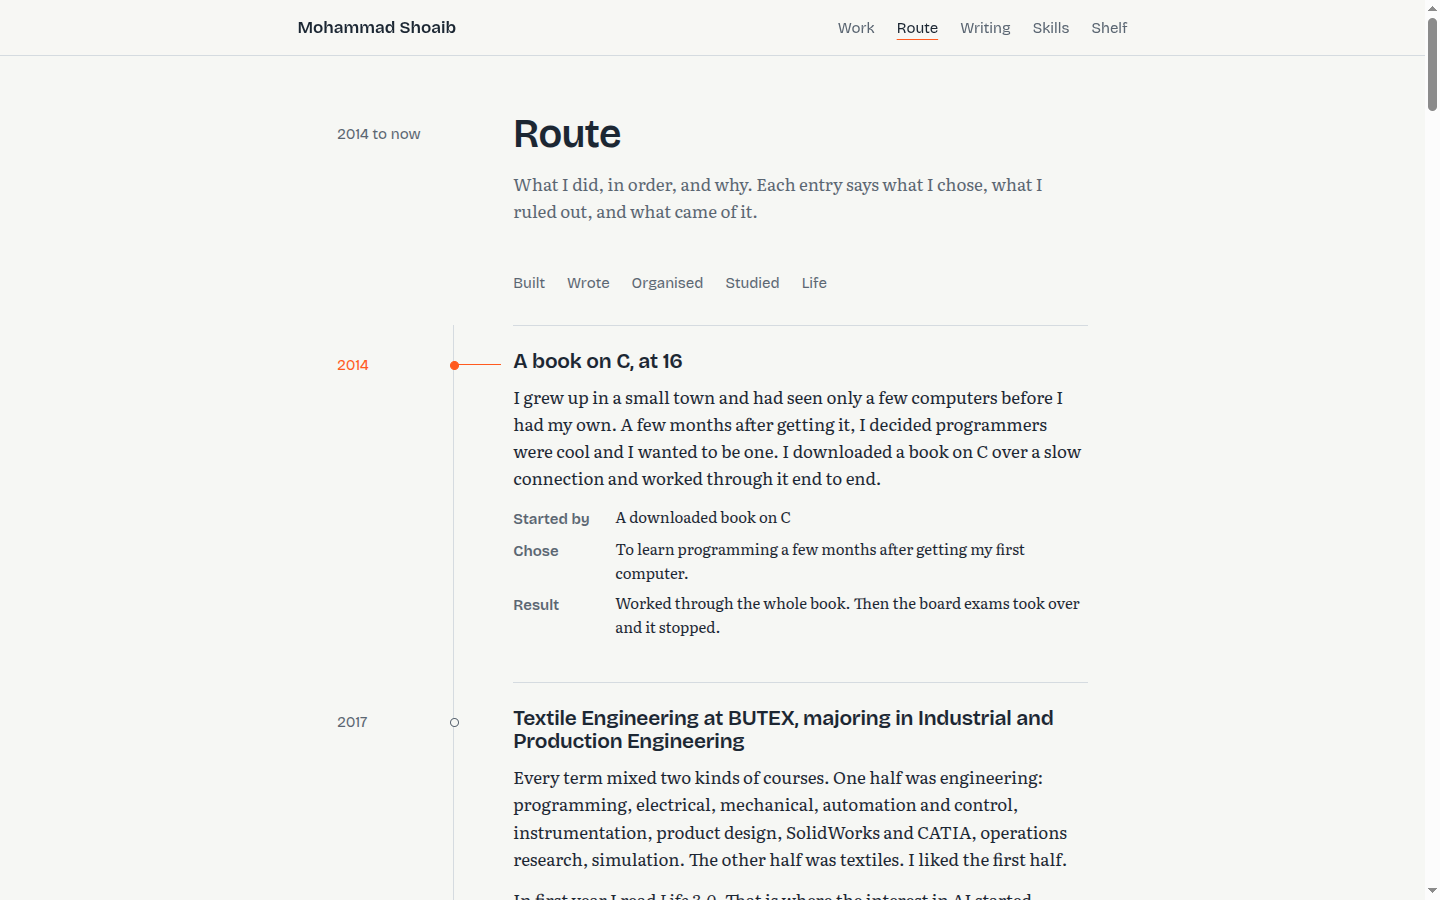
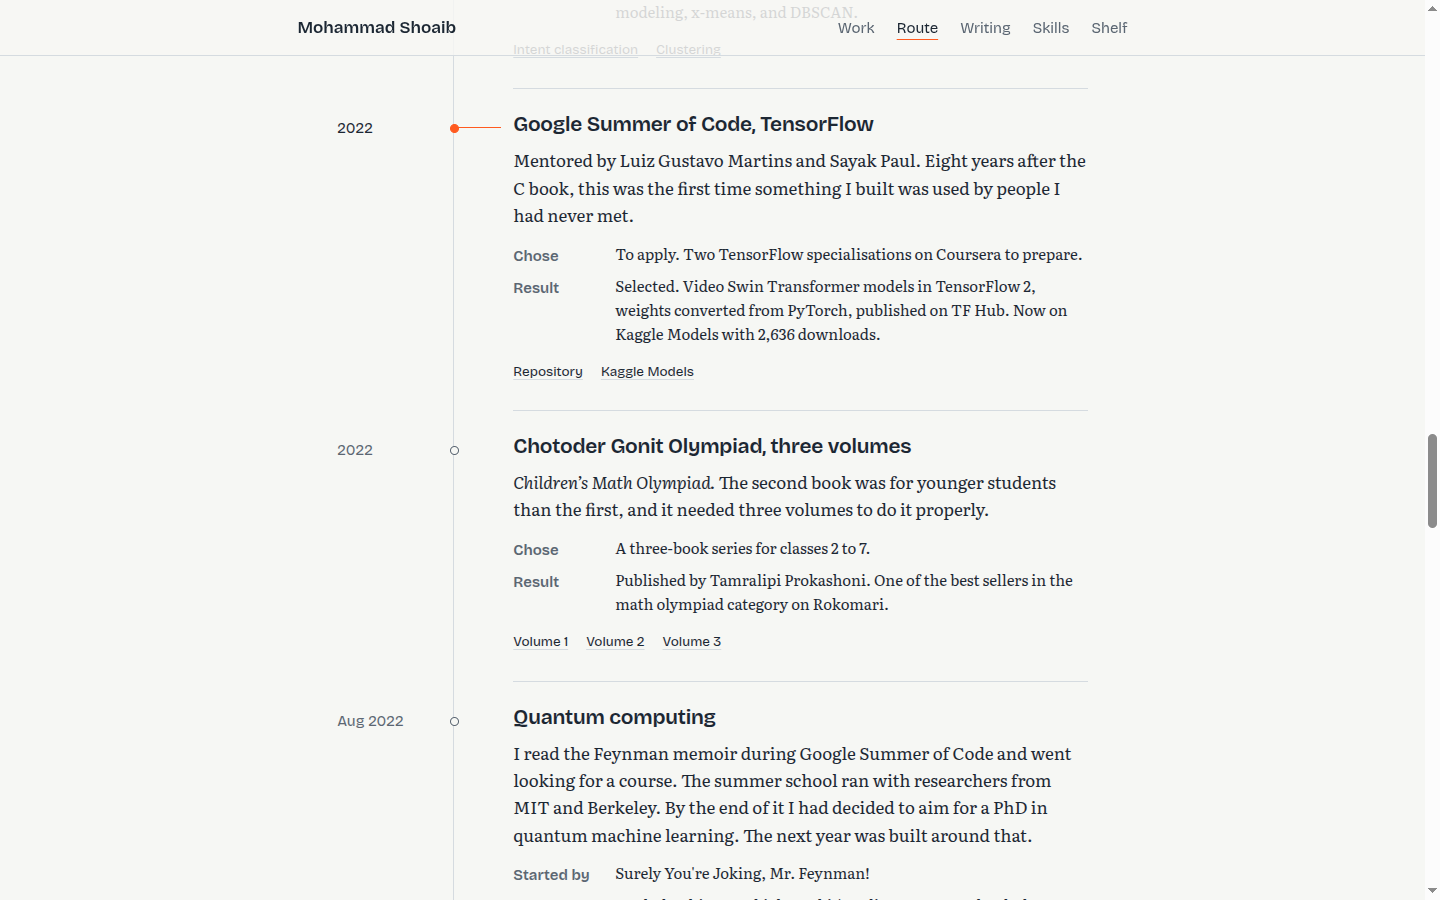
Play the hero sequence once per session

diff --git a/src/scripts/hero.ts b/src/scripts/hero.ts
@@ -7,6 +7,10 @@ function init() {
   if (!hero || hero.dataset.played === '1') return;
   hero.dataset.played = '1';
   if (reducedMotion()) return;
+  // Once per browser session; a return visit within the session sees the finished plan.
+  let seen = false;
+  try { seen = sessionStorage.getItem('hero-played') === '1'; sessionStorage.setItem('hero-played', '1'); } catch { /* storage unavailable: play */ }
+  if (seen) return;
 
   const typed = hero.querySelector<HTMLElement>('[data-typed]');
   const steps = [...hero.querySelectorAll<HTMLElement>('.hero__plan li')];
